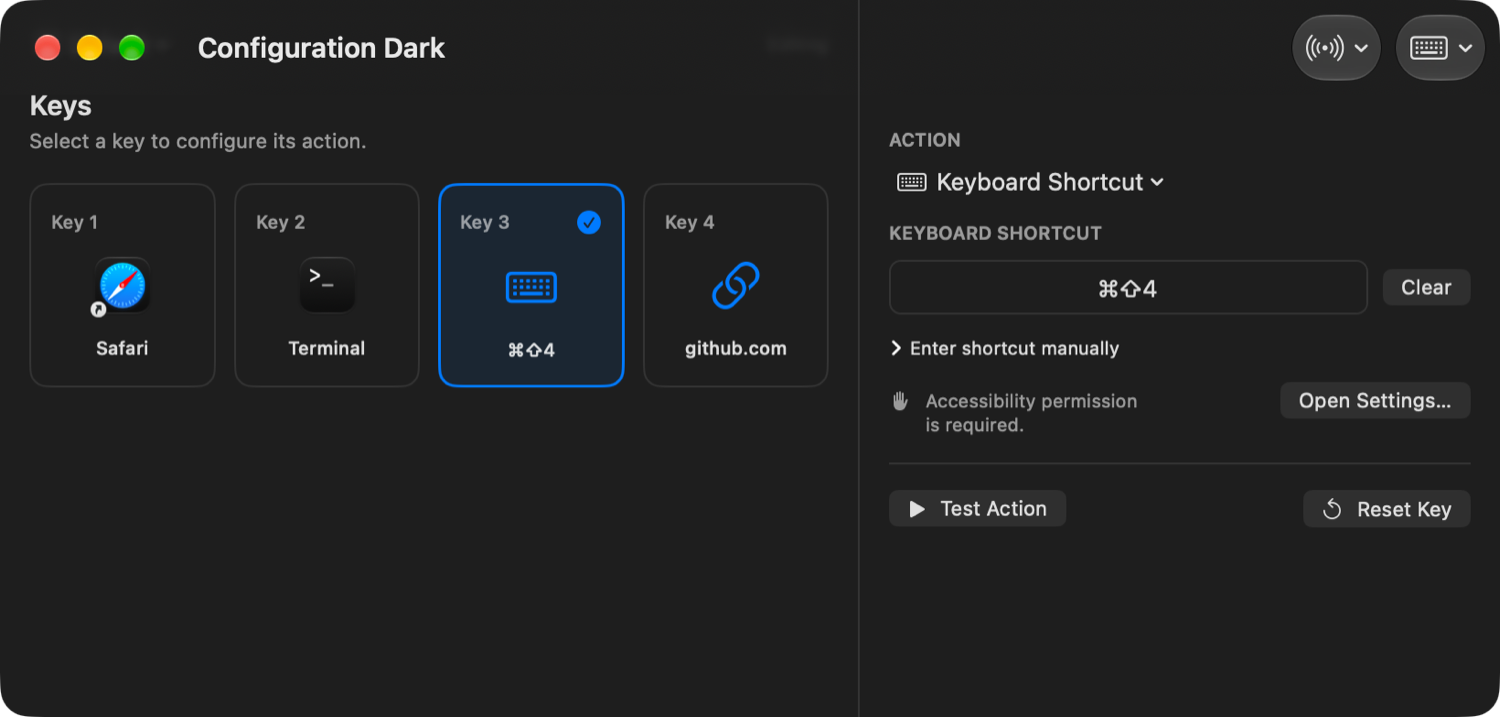
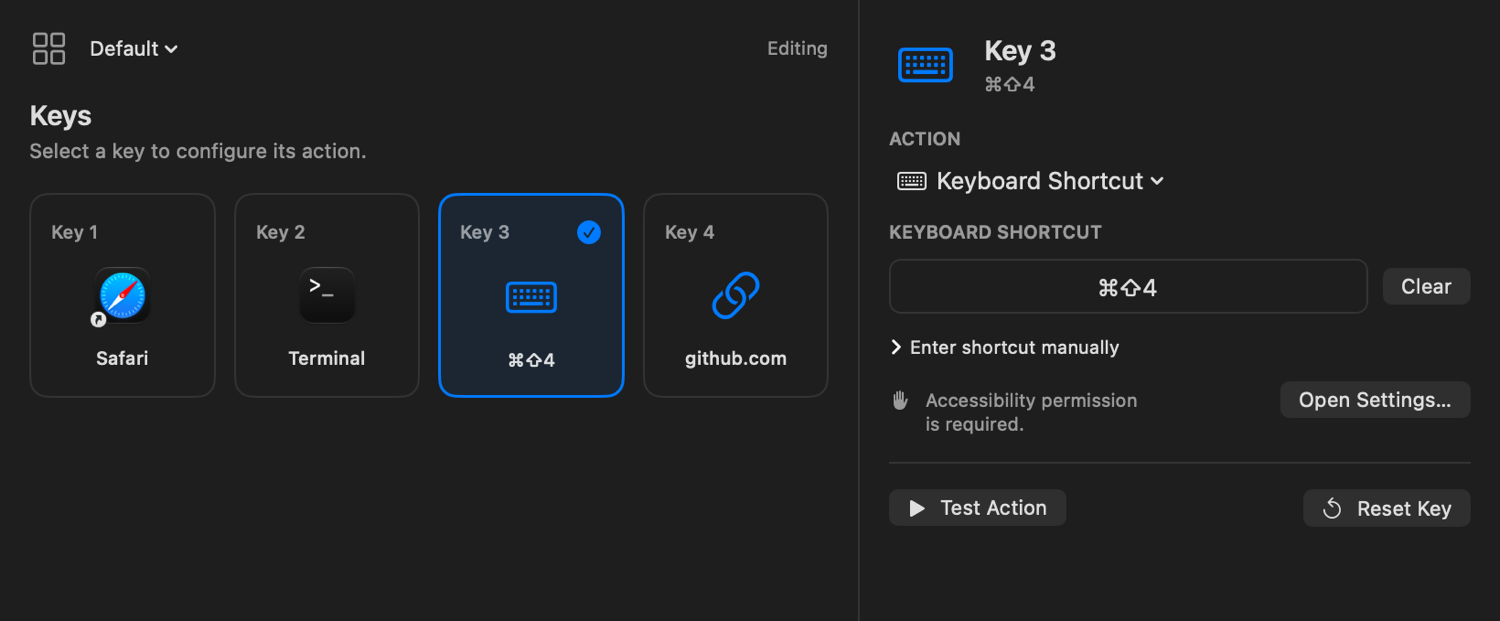
Polish screenshot previews and README gallery

diff --git a/macos/ContentView.swift b/macos/ContentView.swift
@@ -243,6 +243,8 @@ struct ProfileSelector: View {
 
     var body: some View {
         HStack(spacing: 8) {
+            ProfileIcon(profile: model.editingProfile, size: 22)
+
             Menu {
                 Button {
                     model.editingProfileID = nil
@@ -274,17 +276,11 @@ struct ProfileSelector: View {
                     model.addApplicationProfile()
                 }
             } label: {
-                HStack(spacing: 7) {
-                    ProfileIcon(profile: model.editingProfile, size: 22)
-                    Text(model.editingProfileName)
-                        .lineLimit(1)
-                    Image(systemName: "chevron.up.chevron.down")
-                        .font(.caption2)
-                        .foregroundStyle(.secondary)
-                }
-                .contentShape(.rect)
+                Text(model.editingProfileName)
+                    .lineLimit(1)
             }
             .menuStyle(.borderlessButton)
+            .controlSize(.small)
             .accessibilityLabel("Editing profile")
             .accessibilityValue(model.editingProfileName)
 
@@ -325,6 +321,7 @@ struct ProfileIcon: View {
             }
         }
         .frame(width: size, height: size)
+        .clipped()
         .accessibilityHidden(true)
     }
 }
@@ -365,6 +362,7 @@ struct MacroKeyTile: View {
             )
         }
         .buttonStyle(.plain)
+        .frame(maxWidth: .infinity)
         .onHover { isHovering = $0 }
         .animation(reduceMotion ? nil : .easeOut(duration: 0.12), value: isPressed)
         .help(presentation.tooltip)
@@ -1049,17 +1047,15 @@ struct MediaInspector: View {
 }
 
 #if DEBUG
-#Preview("Configuration Dark") {
+#Preview("Configuration Dark", traits: .fixedLayout(width: 820, height: 340)) {
     ContentView(model: PreviewFixtures.model())
-        .frame(width: 820, height: 340)
         .preferredColorScheme(.dark)
         .allowsHitTesting(false)
 }
 
-#Preview("Application Profiles Light") {
+#Preview("Application Profiles Dark", traits: .fixedLayout(width: 820, height: 340)) {
     ContentView(model: PreviewFixtures.model(profile: true))
-        .frame(width: 820, height: 340)
-        .preferredColorScheme(.light)
+        .preferredColorScheme(.dark)
         .allowsHitTesting(false)
 }
 #endif

diff --git a/macos/SettingsView.swift b/macos/SettingsView.swift
@@ -3,25 +3,38 @@ import SwiftUI
 
 struct MacroPadSettingsView: View {
     @Bindable var model: AppModel
+    @State private var selection: SettingsTab
+
+    init(model: AppModel, selection: SettingsTab = .general) {
+        self.model = model
+        _selection = State(initialValue: selection)
+    }
 
     var body: some View {
-        TabView {
-            Tab("General", systemImage: "gearshape") {
+        TabView(selection: $selection) {
+            Tab("General", systemImage: "gearshape", value: SettingsTab.general) {
                 GeneralSettings(model: model)
             }
-            Tab("Device", systemImage: "dot.radiowaves.left.and.right") {
+            Tab("Device", systemImage: "dot.radiowaves.left.and.right", value: SettingsTab.device) {
                 DeviceSettings(model: model)
             }
-            Tab("Permissions", systemImage: "hand.raised") {
+            Tab("Permissions", systemImage: "hand.raised", value: SettingsTab.permissions) {
                 PermissionSettings(model: model)
             }
-            Tab("About", systemImage: "info.circle") {
+            Tab("About", systemImage: "info.circle", value: SettingsTab.about) {
                 AboutSettings()
             }
         }
         .scenePadding()
         .frame(width: 500, height: 310)
     }
+}
+
+enum SettingsTab: Hashable {
+    case general
+    case device
+    case permissions
+    case about
 }
 
 struct GeneralSettings: View {
@@ -175,11 +188,9 @@ struct AboutSettings: View {
 }
 
 #if DEBUG
-#Preview("Device Settings Light") {
-    DeviceSettings(model: PreviewFixtures.model(device: true))
-        .scenePadding()
-        .frame(width: 500, height: 310)
-        .preferredColorScheme(.light)
+#Preview("macro-pad") {
+    MacroPadSettingsView(model: PreviewFixtures.model(device: true), selection: .device)
+        .preferredColorScheme(.dark)
         .allowsHitTesting(false)
 }
 #endif

diff --git a/macos/AppModel.swift b/macos/AppModel.swift
@@ -477,7 +477,7 @@ enum PreviewFixtures {
             startServices: false
         )
         var configuration = AppConfiguration()
-        configuration.appearance = profile || device ? .light : .dark
+        configuration.appearance = .dark
         configuration.keys = defaultAssignments()
 
         if profile {

diff --git a/macos/MacroPadApp.swift b/macos/MacroPadApp.swift
@@ -338,7 +338,7 @@ struct MenuBarActions: View {
 }
 
 #if DEBUG
-#Preview("Menu Bar Popover Dark") {
+#Preview("Menu Bar Popover Dark", traits: .fixedLayout(width: 340, height: 284)) {
     MenuBarPopover(model: PreviewFixtures.model())
         .preferredColorScheme(.dark)
         .allowsHitTesting(false)

diff --git a/README.md b/README.md
@@ -2,7 +2,7 @@
 
 macro-pad turns four mechanical switches connected to an ESP32-WROOM-32 into a configurable Bluetooth macro controller for macOS. The ESP32 sends debounced key transitions over a small custom BLE protocol; the native companion app owns assignments, permissions, persistence, and action execution.
 
-**Verification status:** the macOS application builds, 41 Swift tests pass, and firmware compiles for PlatformIO's `esp32dev` target and Arduino CLI's `esp32:esp32:esp32` target. Physical BLE discovery, switch behavior, and end-to-end macro execution still require an ESP32-WROOM-32 hardware acceptance run. No hardware result is implied by successful compilation.
+**Verification status:** the macOS application builds, 41 Swift tests pass, and firmware compiles for PlatformIO's `esp32dev` target and Arduino CLI's `esp32:esp32:esp32` target. Manual testing on physical ESP32-WROOM-32 hardware has validated BLE connectivity, four-button input, reconnection, configured macro execution, and application integrations. The repository does not include an automated hardware acceptance suite.
 
 ![macro-pad configuration in Dark Mode with Safari, Terminal, screenshot shortcut, and GitHub assignments](screenshots/configuration-dark.png)
 
@@ -49,11 +49,11 @@ The companion is a native SwiftUI/AppKit menu bar utility with a compact status 
 
 ## Screenshots
 
-![macro-pad menu bar popover in Dark Mode with four configured keys](screenshots/menu-bar-popover-dark.png)
-
-![macro-pad Discord application profile in Light Mode showing override, inherited, and disabled assignments](screenshots/application-profiles-light.png)
-
-![macro-pad Device settings in Light Mode showing disconnected state and automatic reconnection](screenshots/device-settings-light.png)
+| Configuration | Menu Bar |
+| --- | --- |
+| ![macro-pad configuration in Dark Mode](screenshots/configuration-dark.png) | ![macro-pad menu bar popover in Dark Mode](screenshots/menu-bar-popover-dark.png) |
+| Application Profiles | Device Settings |
+| ![macro-pad Discord application-specific profile in Dark Mode](screenshots/application-profiles-dark.png) | ![macro-pad Device settings in Dark Mode](screenshots/device-settings-dark.png) |
 
 ## Hardware and wiring
 
@@ -82,7 +82,7 @@ After connecting, firmware waits 75 ms and sends four non-executing state-synchr
 
 ## Installation
 
-> **Distribution status:** v1.0.0 uses an ad-hoc signature to seal the completed application bundle, but it is not Apple Developer ID signed or notarized. macOS Gatekeeper may block the downloaded app or require an explicit user override. If you do not want to run an unnotarized binary, build macro-pad from source in Xcode. The project does not claim developer identity verification or Apple notarization.
+> **Distribution status:** release DMGs use an ad-hoc signature to seal the completed application bundle, but they are not Apple Developer ID signed or notarized. macOS Gatekeeper may block the downloaded app or require an explicit user override. If you do not want to run an unnotarized binary, build macro-pad from source in Xcode. The project does not claim developer identity verification or Apple notarization.
 
 Requirements:
 
@@ -177,7 +177,7 @@ pio device monitor --port /dev/cu.usbserial-XXXX --baud 115200
 
 Release DMGs must be created with [`scripts/package-release.sh`](scripts/package-release.sh). The packager signs the completed application bundle ad hoc, requires strict signature verification before packaging, mounts the resulting DMG, and independently verifies the packaged copy. See [release packaging](docs/releasing.md) for the full process and distribution limitations.
 
-The 41 automated checks cover protocol validation, state transitions, duplicate suppression, GPIO mapping, reconnect intent, profile resolution, persistence/migration, shortcut safeguards, URL validation, and command output, failure, cancellation, and timeout handling. Hardware acceptance must separately verify pin wiring, radio discovery, bonding, reconnect behavior, simultaneous presses, and end-to-end actions.
+The 41 automated checks cover protocol validation, state transitions, duplicate suppression, GPIO mapping, reconnect intent, profile resolution, persistence/migration, shortcut safeguards, URL validation, and command output, failure, cancellation, and timeout handling. Manual physical-hardware testing has covered BLE connectivity, button input, reconnection, integrations, and end-to-end macro execution; it is separate from the automated suite.
 
 ## Troubleshooting
 
@@ -185,7 +185,7 @@ See [docs/troubleshooting.md](docs/troubleshooting.md) for discovery, wiring, pe
 
 ## Limitations
 
-- Physical behavior has not been claimed until tested on an ESP32-WROOM-32.
+- Physical ESP32-WROOM-32 behavior has been validated manually; there is no automated hardware acceptance suite.
 - CoreBluetooth background execution and reconnection are best-effort while the app is running, not indefinite guarantees.
 - BLE Just Works does not authenticate the device during first pairing; UUID and stored-identifier checks reduce accidental connections but do not defeat an active impersonator.
 - macOS has no supported public API for universal system media controls. Legacy saved assignments are preserved but cannot execute; use a user-configured Apple Shortcut instead. Private APIs are not used.

diff --git a/firmware/macro-pad/README.md b/firmware/macro-pad/README.md
@@ -10,6 +10,6 @@ Arduino-compatible firmware for the original ESP32-WROOM-32. It scans four activ
 | ESP32 board package | 3.3.12 (Arduino path) |
 | NimBLE-Arduino | 2.3.7 |
 
-Select **ESP32 Dev Module**, CPU **240 MHz**, flash **4 MB**, partition scheme **Default 4MB with spiffs**, PSRAM **Disabled**, and upload speed **921600** (use **115200** if the board is unreliable at the higher rate). Validated builds used PlatformIO Core 6.2.0 with `espressif32@6.12.0` (Arduino-ESP32 2.0.17), and Arduino CLI 1.5.1 with ESP32 core 3.3.12. Both used NimBLE-Arduino 2.3.7. Flashing and behavior still require hardware acceptance testing.
+Select **ESP32 Dev Module**, CPU **240 MHz**, flash **4 MB**, partition scheme **Default 4MB with spiffs**, PSRAM **Disabled**, and upload speed **921600** (use **115200** if the board is unreliable at the higher rate). Validated builds used PlatformIO Core 6.2.0 with `espressif32@6.12.0` (Arduino-ESP32 2.0.17), and Arduino CLI 1.5.1 with ESP32 core 3.3.12. Both used NimBLE-Arduino 2.3.7. Manual ESP32-WROOM-32 testing has validated BLE connectivity, physical button input, reconnection, integrations, and end-to-end macro execution; no automated hardware acceptance suite is included.
 
 See the root README for wiring and exact Arduino CLI commands.
